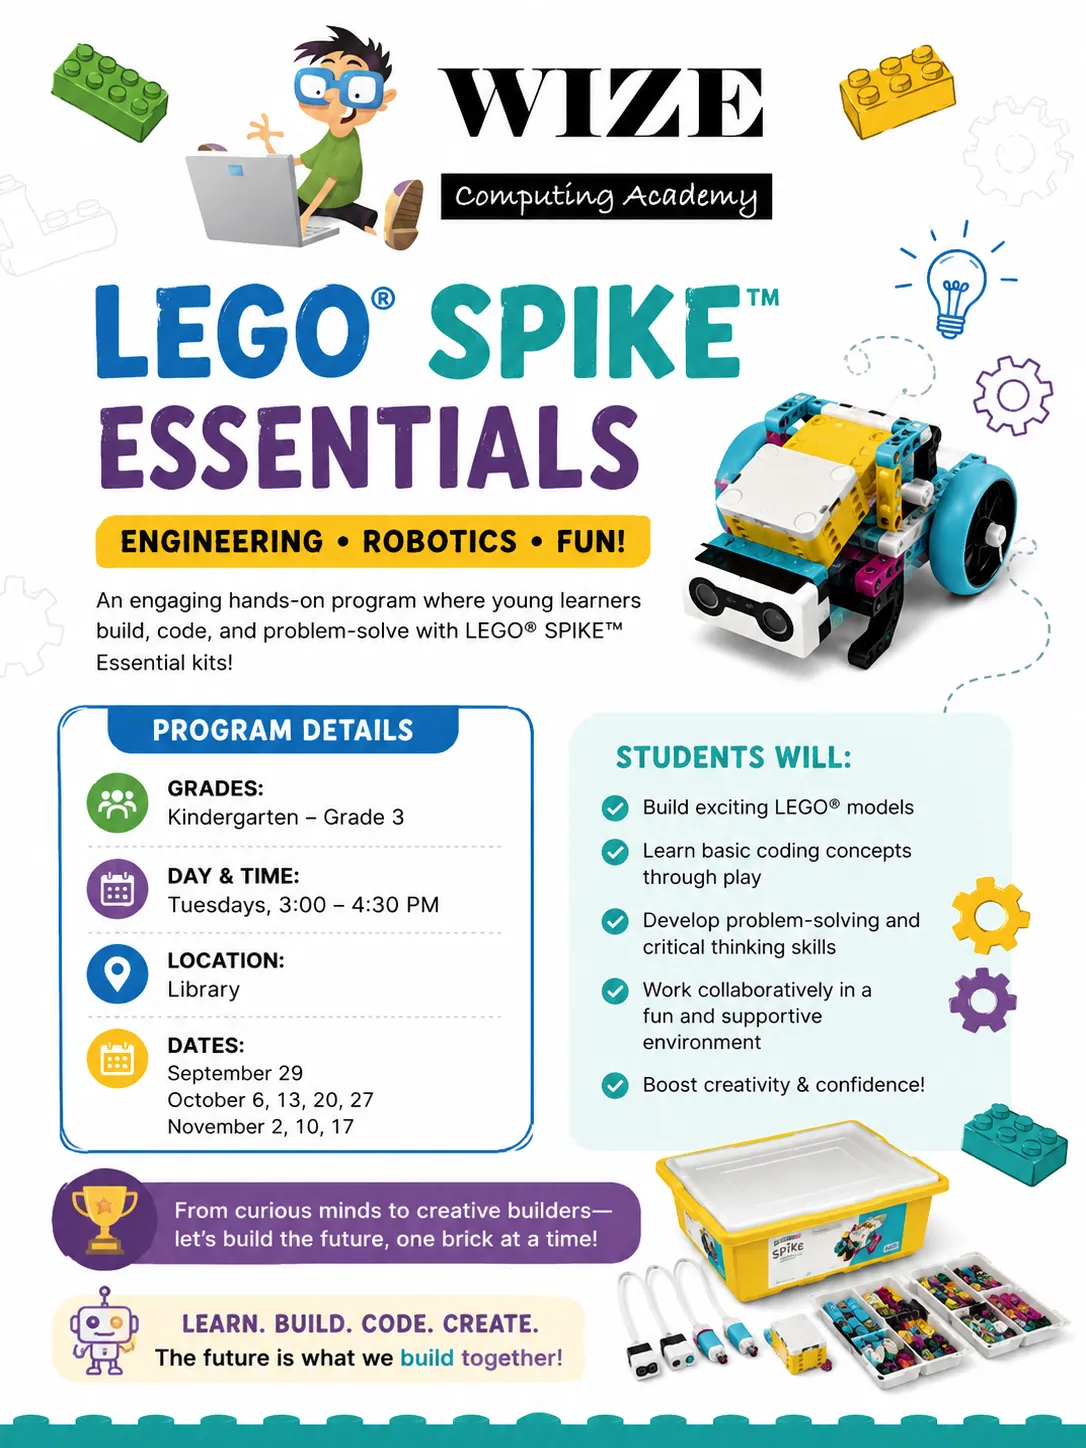
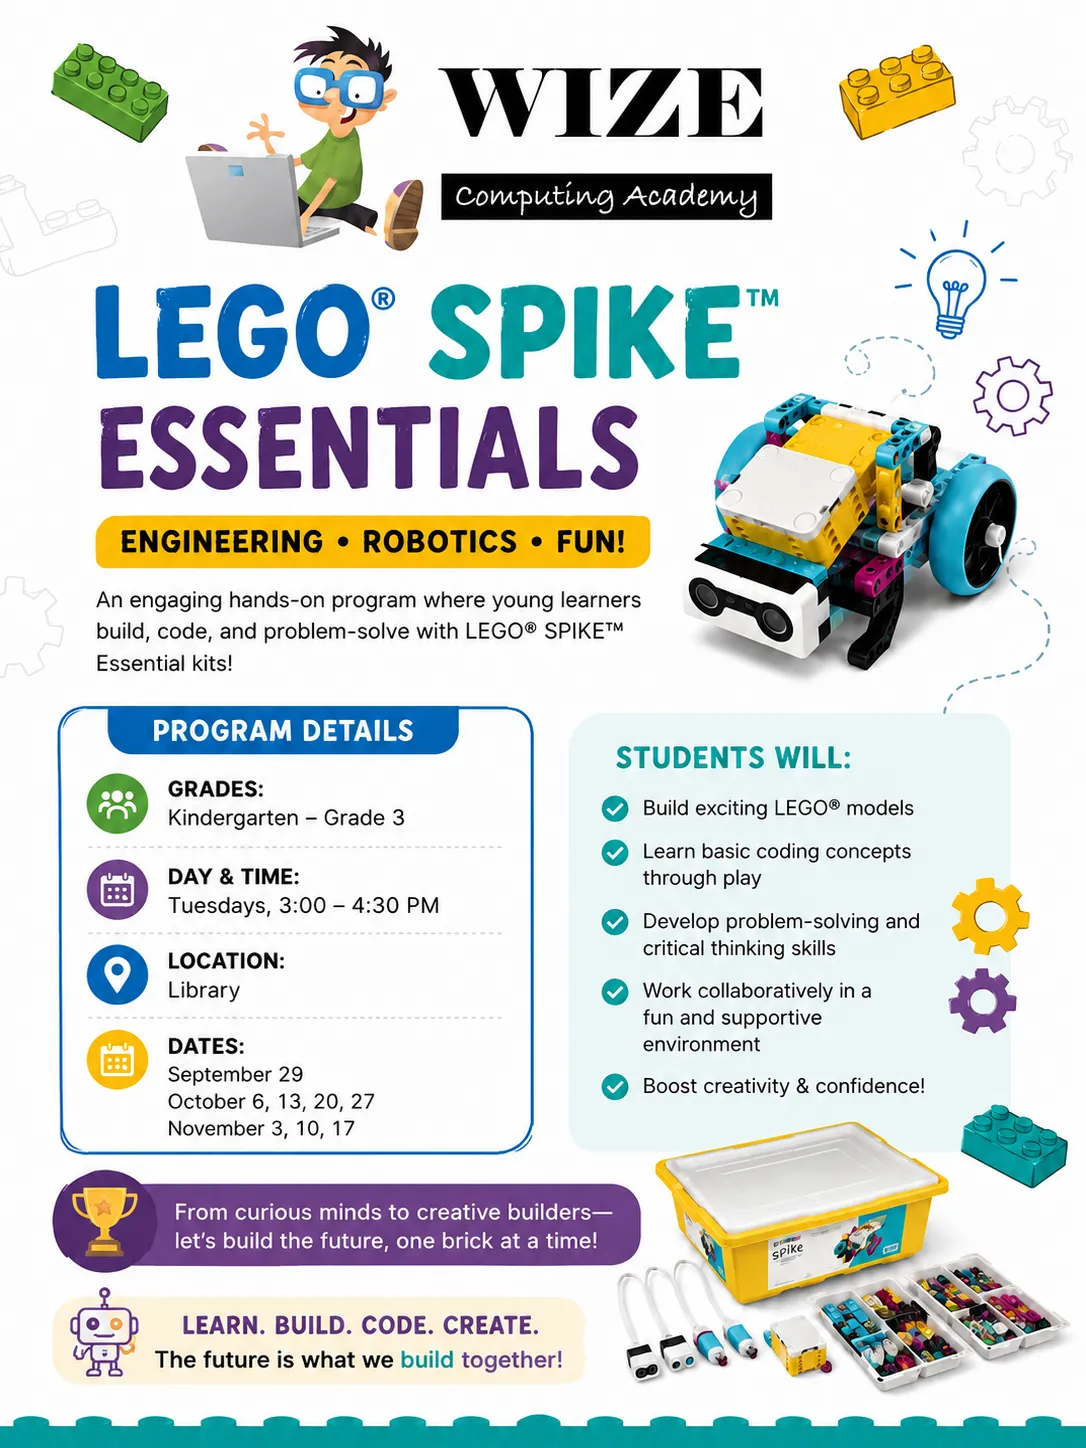
program updates

diff --git a/programs.md b/programs.md
@@ -69,10 +69,10 @@ Please pick up your child _outside_ of the front doors of the school.
 | Program | Brainiacs Board Games ♟️
 | Location | Library
 | Grades | K – 7<br />(Grades 4+, the program is best if registered with a friend)
-| Dates | Sep 23 – Dec 9
+| Dates | Sep 23 – Dec 9 (no sessions Sep 30, Nov 11)
 | Time | 3:00 – 5:00 pm
-| Cost | $385 + tax
-| Register | [Info and registration](https://brainiacsadventures.com/register){:target="_blank"}
+| Cost | $340 + GST
+| Register | [Info and registration](https://www.brainiacsadventures.com/event-details-registration/lecole-bilingue-after-school-fall-2026-wednesdays){:target="_blank"}
 {: .programs-table}
 
 ### Thursdays